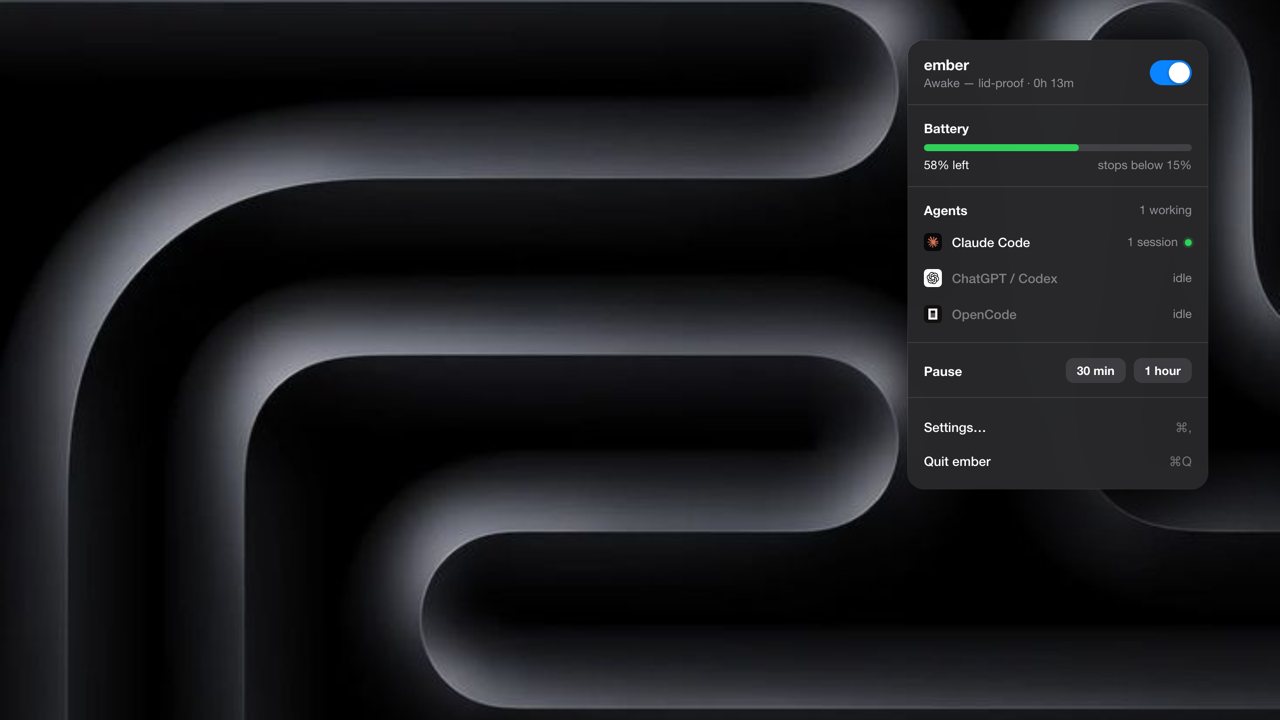
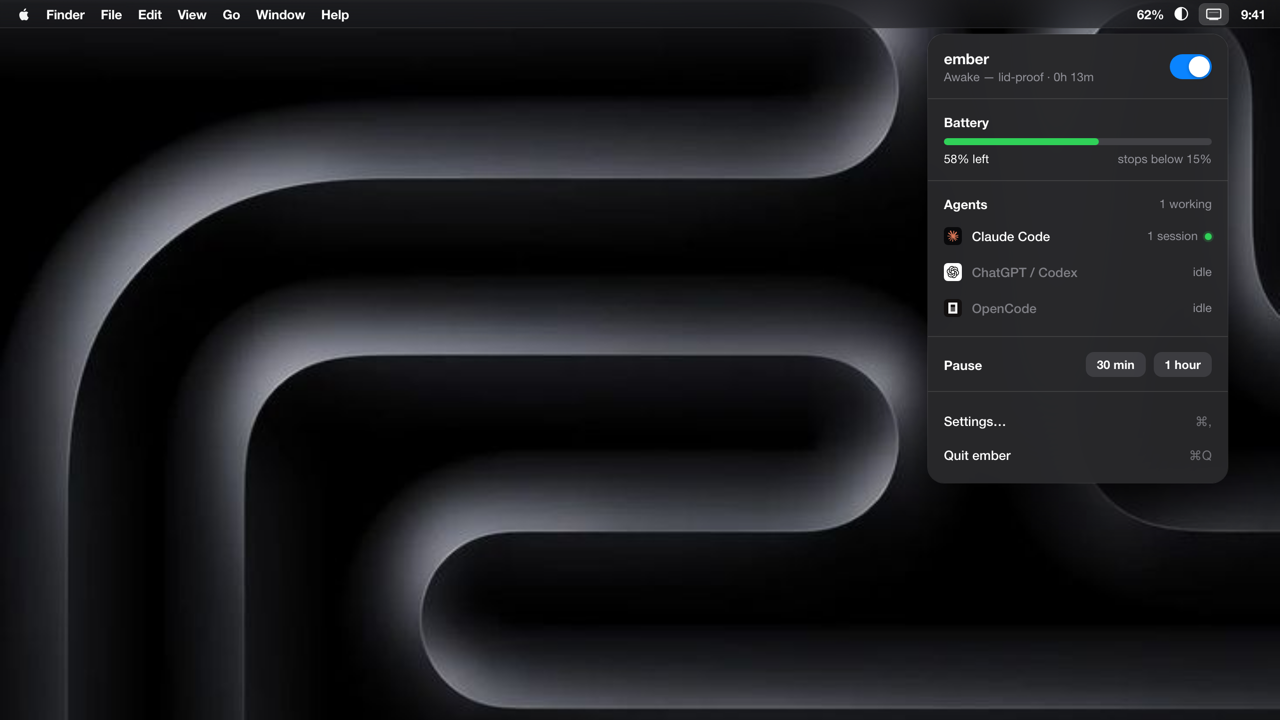
docs: show menu bar status item in README screenshot.

diff --git a/apps/web/public/menu-mock.html b/apps/web/public/menu-mock.html
@@ -23,10 +23,72 @@
         background: #000 url("./wallpaper.jpg") center / cover no-repeat;
         position: relative;
       }
+      .menubar {
+        position: absolute;
+        inset: 0 0 auto;
+        height: 28px;
+        display: flex;
+        align-items: center;
+        justify-content: space-between;
+        padding: 0 14px 0 16px;
+        background: linear-gradient(
+          to bottom,
+          rgba(28, 28, 30, 0.72),
+          rgba(22, 22, 24, 0.55)
+        );
+        backdrop-filter: blur(28px) saturate(180%);
+        -webkit-backdrop-filter: blur(28px) saturate(180%);
+        color: #fff;
+        font-size: 13px;
+        font-weight: 550;
+        letter-spacing: -0.01em;
+        border-bottom: 0.5px solid rgba(255, 255, 255, 0.06);
+        z-index: 5;
+      }
+      .menubar-left {
+        display: flex;
+        align-items: center;
+        gap: 16px;
+      }
+      .apple {
+        width: 14px;
+        height: 14px;
+        opacity: 0.95;
+      }
+      .menubar-right {
+        display: flex;
+        align-items: center;
+        gap: 10px;
+      }
+      .mb-item {
+        display: inline-flex;
+        align-items: center;
+        height: 22px;
+        color: #fff;
+      }
+      .status-btn {
+        display: inline-flex;
+        align-items: center;
+        justify-content: center;
+        height: 22px;
+        min-width: 28px;
+        padding: 0 7px;
+        border-radius: 6px;
+        background: rgba(255, 255, 255, 0.16);
+        box-shadow: inset 0 0 0 0.5px rgba(255, 255, 255, 0.08);
+      }
+      .status-btn svg {
+        display: block;
+      }
+      .clock {
+        font-variant-numeric: tabular-nums;
+        font-weight: 600;
+        padding-left: 2px;
+      }
       .popover {
         position: absolute;
-        top: 40px;
-        right: 72px;
+        top: 34px;
+        right: 52px;
         width: 300px;
         background: rgba(40, 40, 42, 0.94);
         backdrop-filter: blur(48px) saturate(180%);
@@ -37,6 +99,7 @@
           0 24px 64px rgba(0, 0, 0, 0.58);
         color: #fff;
         overflow: hidden;
+        z-index: 4;
       }
       .section {
         padding: 15px 16px 14px;
@@ -188,6 +251,42 @@
   </head>
   <body>
     <div class="stage">
+      <header class="menubar" aria-label="menu bar">
+        <div class="menubar-left">
+          <svg class="apple" viewBox="0 0 14 17" aria-hidden="true">
+            <path
+              fill="currentColor"
+              d="M11.6 9.1c0-1.7 1.4-2.5 1.5-2.6-0.8-1.2-2.1-1.3-2.5-1.4-1.1-0.1-2.1 0.6-2.6 0.6-0.6 0-1.4-0.6-2.3-0.6-1.2 0-2.3 0.7-2.9 1.8-1.3 2.2-0.3 5.4 0.9 7.2 0.6 0.9 1.3 1.8 2.2 1.8 0.9 0 1.2-0.6 2.3-0.6s1.4 0.6 2.3 0.6c1 0 1.6-0.9 2.2-1.7 0.7-1 0.9-2 0.9-2 0 0-1.8-0.7-1.8-2.7zM9.7 3.6c0.5-0.6 0.8-1.4 0.7-2.2-0.7 0-1.6 0.5-2.1 1.1-0.5 0.5-0.9 1.4-0.8 2.2 0.8 0.1 1.6-0.4 2.2-1.1z"
+            />
+          </svg>
+          <span>Finder</span>
+          <span>File</span>
+          <span>Edit</span>
+          <span>View</span>
+          <span>Go</span>
+          <span>Window</span>
+          <span>Help</span>
+        </div>
+        <div class="menubar-right">
+          <span class="mb-item">62%</span>
+          <span class="mb-item" aria-hidden="true">
+            <svg width="15" height="15" viewBox="0 0 15 15" fill="none">
+              <circle cx="7.5" cy="7.5" r="6.2" stroke="white" stroke-width="1.2" />
+              <path d="M7.5 1.3V13.7" stroke="white" stroke-width="1.2" />
+              <path d="M7.5 1.3a6.2 6.2 0 0 0 0 12.4Z" fill="white" />
+            </svg>
+          </span>
+          <span class="status-btn" title="ember" aria-label="ember">
+            <svg width="16" height="12" viewBox="0 0 16 12" fill="none" aria-hidden="true">
+              <rect x="1" y="1" width="14" height="9" rx="1.4" stroke="white" stroke-width="1.2" />
+              <path d="M4 11.2h8" stroke="white" stroke-width="1.2" stroke-linecap="round" />
+              <path d="M3.2 4.2h9.6" stroke="white" stroke-width="0.9" opacity="0.45" />
+            </svg>
+          </span>
+          <span class="mb-item clock">9:41</span>
+        </div>
+      </header>
+
       <div class="popover" id="popover">
         <div class="section">
           <div class="row">
